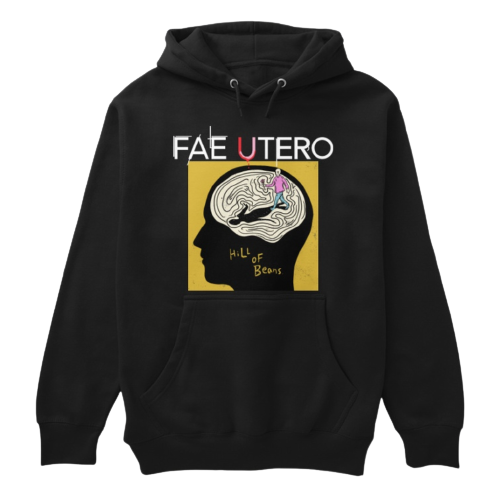
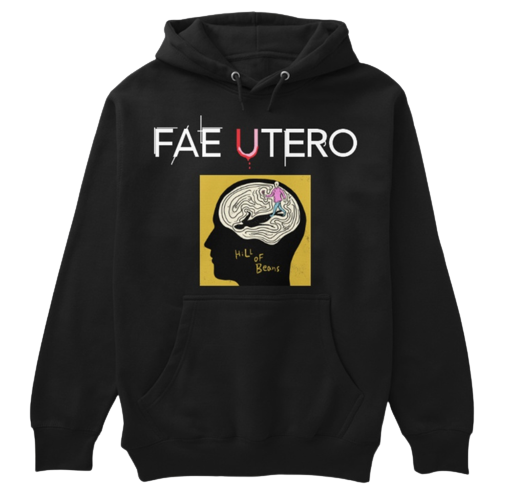
replace hoodie png. minor style tweaks

diff --git a/src/components/Shop/Shop.js b/src/components/Shop/Shop.js
@@ -15,20 +15,16 @@ const Shop = forwardRef((props, ref) => {
           rel='noreferrer'
           href={stringResource.portfolio.hillofbeansbandcamplink}
         >
-          <h1>
-            BUY ALBUM&nbsp;
-            <Emoji label='headphones' symbol='🎧' />
-          </h1>
+          BUY ALBUM&nbsp;
+          <Emoji label='headphones' symbol='🎧' />
         </a>
         <a
           target='_blank'
           rel='noreferrer'
           href={stringResource.portfolio.hobmerch}
         >
-          <h1>
-            BUY MERCH&nbsp;
-            <Emoji label='skull' symbol='💀' />
-          </h1>
+          BUY MERCH&nbsp;
+          <Emoji label='skull' symbol='💀' />
         </a>
       </div>
 

diff --git a/src/components/Shop/Shop.scss b/src/components/Shop/Shop.scss
@@ -8,10 +8,16 @@
   display: flex;
   flex-direction: column;
   a {
-    margin: 0.5em;
+    margin: 0.75em;
     text-decoration: none;
     font-family: $font-family;
     font-weight: bolder;
+    color: $light-color;
+    font-size: 3em;
+  }
+
+  a:hover {
+    color: $hob;
   }
 }
 
@@ -35,5 +41,11 @@
   .shop__merch__img {
     width: 80%;
     height: auto;
+  }
+
+  .shop__buy {
+    a {
+      font-size: 2em;
+    }
   }
 }

diff --git a/src/components/Social/Social.scss b/src/components/Social/Social.scss
@@ -10,12 +10,12 @@
   margin: 1em;
   font-size: large;
   a {
-    color: $hob;
+    color: $light-color;
   }
 
   svg:hover {
     transform: scale(1.15);
-    color: $poppunk;
+    color: $hob;
   }
 }
 
